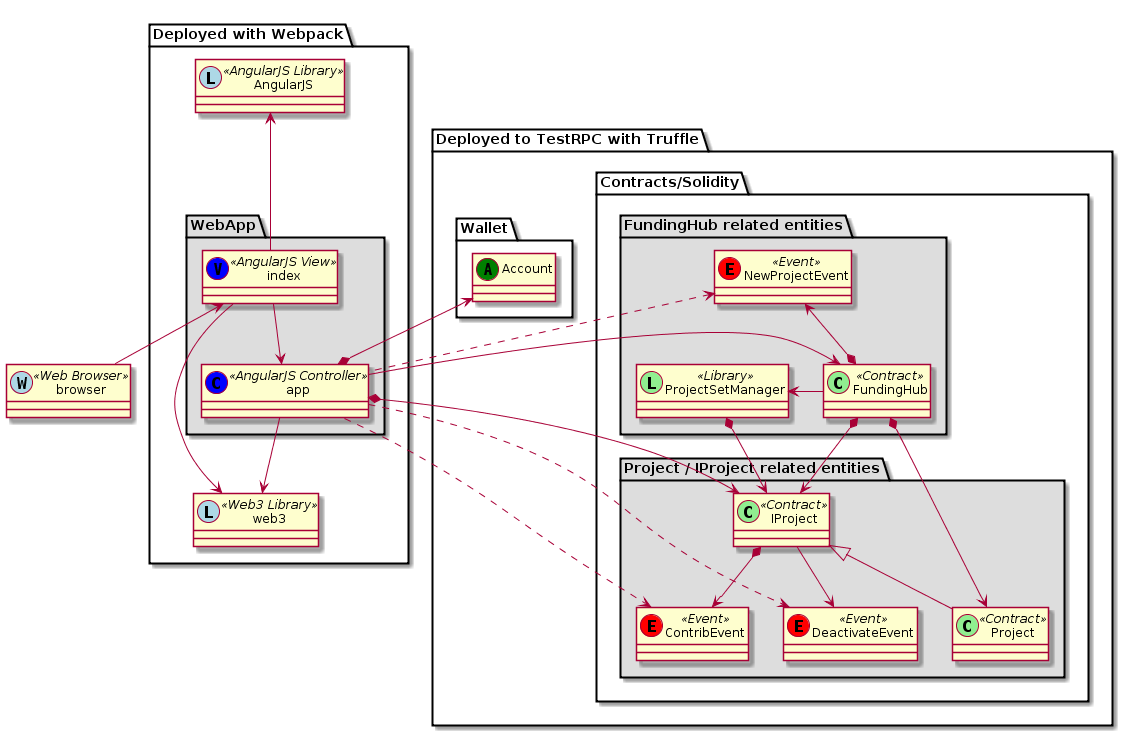
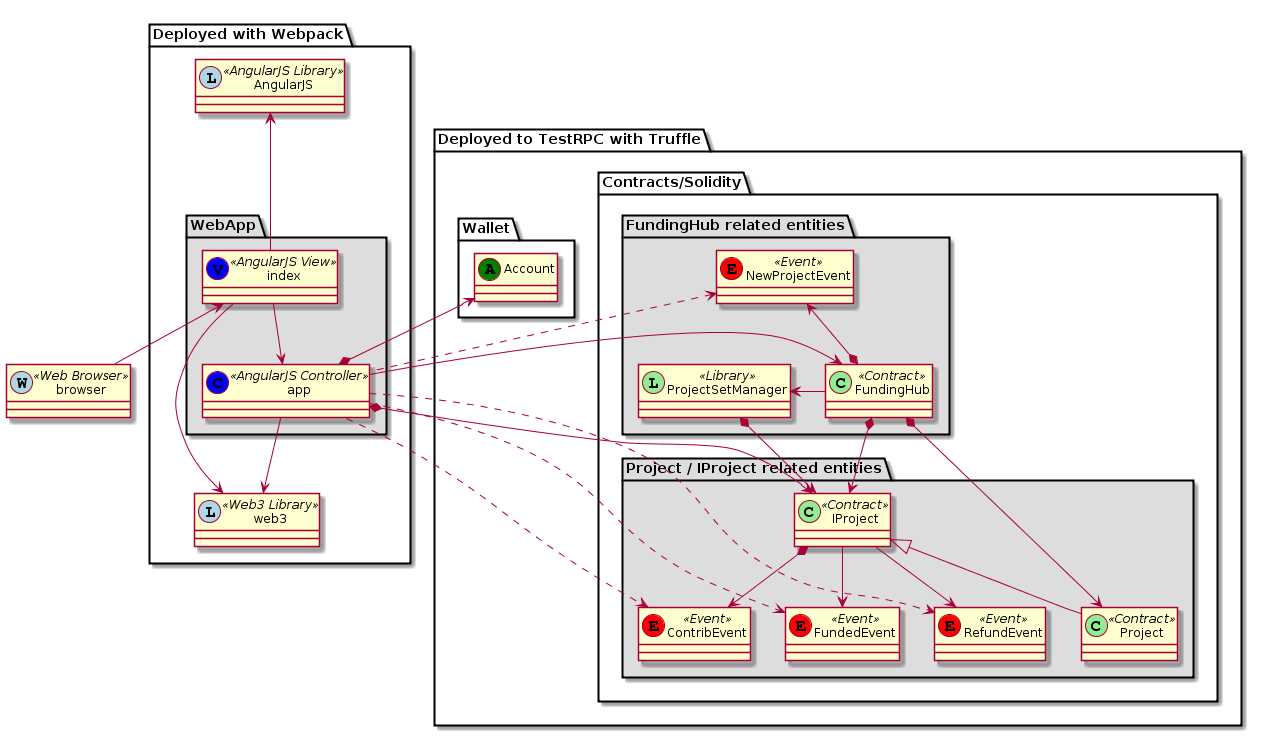
updated docs to reflect splitting out FundediEvent and RefundEvent

Changed region(s): [[0.0, 0.0312, 0.9885, 1.0], [0.2162, 0.1562, 0.2471, 0.1875]]

diff --git a/README.md b/README.md
@@ -89,7 +89,7 @@ The project consists of the following entities:
 
 * __send/withdraw decision__
 
-    ``IProject`` implementations (i.e. ``Project``) provide a ``withdraw`` function. When a project is to be refunded a ``RefundedEvent`` is emitted and the client is responsible for retrieving the contributions from the project by invoking the ``withdraw`` method. This avoids invoking ``send`` operations in a (contract-side) loop. 
+    ``IProject`` implementations (i.e. ``Project``) provide a ``withdraw`` function. When a project is to be refunded a ``RefundEvent`` is emitted and the client is responsible for retrieving the contributions from the project by invoking the ``withdraw`` method. This avoids invoking ``send`` operations in a (contract-side) loop. 
 
 * __[Mortal](https://git.academy.b9lab.com/ETH-6-exam-projects/damienconroy/blob/master/contracts/std/Mortal.sol)__
 
